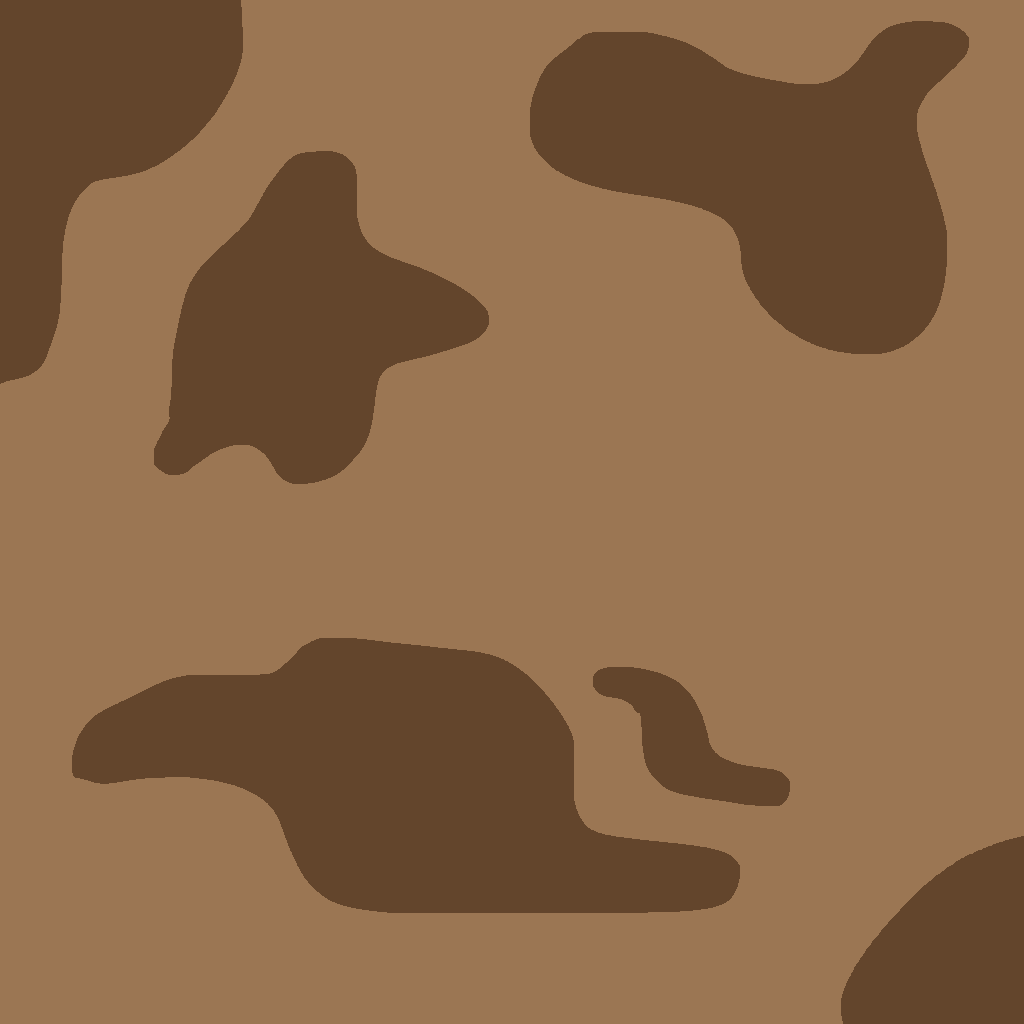
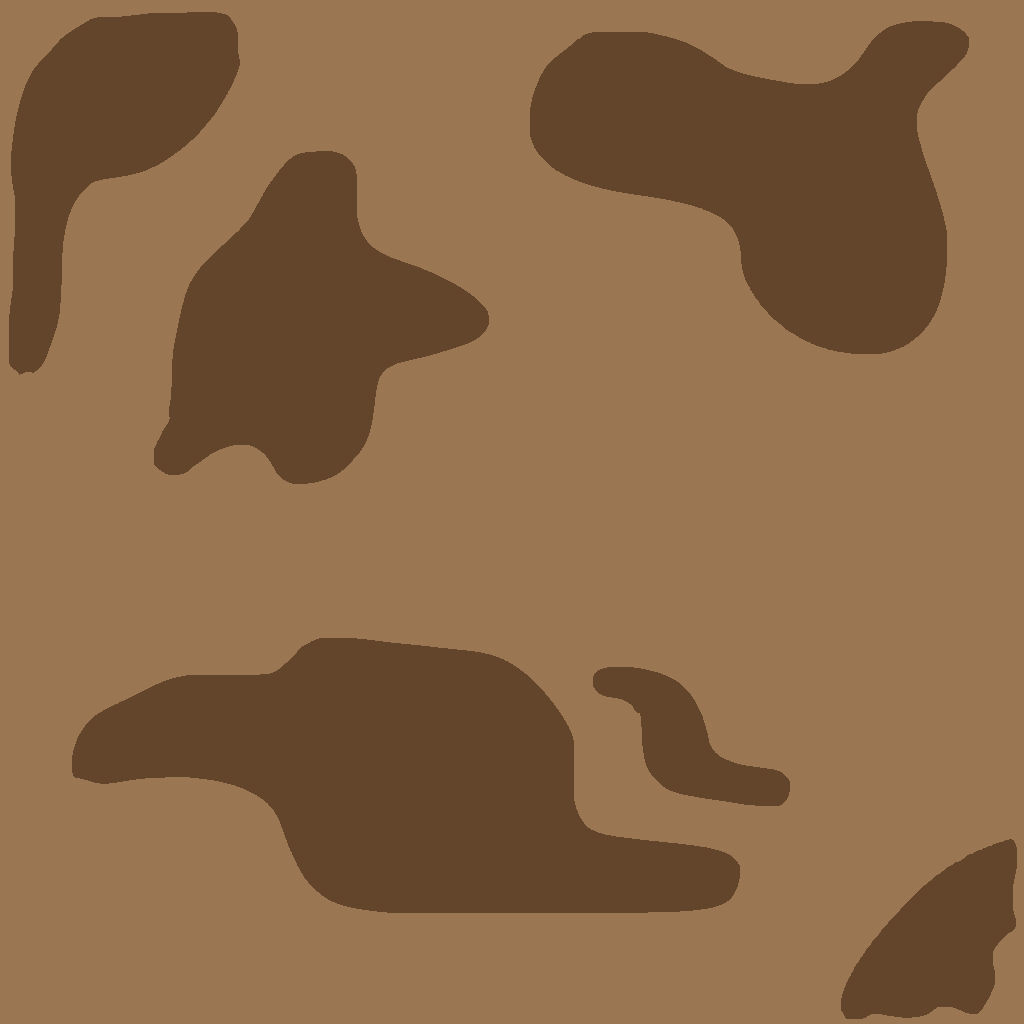
Draw map to screen as background

Changed region(s): [[0.0, 0.0, 0.25, 0.375], [0.8125, 0.8125, 1.0, 1.0]]

diff --git a/src/main.rs b/src/main.rs
@@ -28,10 +28,14 @@ fn model(app: &App) -> Model {
         .unwrap();
 
     let assets = app.assets_path().unwrap();
+
+    let background_path = assets.join("map.png");
+    let background_texture = wgpu::Texture::from_path(app, background_path).unwrap();
+
     let img_path = assets.join("red_ant.png");
     let ant_texture = wgpu::Texture::from_path(app, img_path).unwrap();
 
-    Model::new(ant_texture, NUM_ANTS)
+    Model::new(background_texture, ant_texture, NUM_ANTS)
 }
 
 // required function for the nannou app; is run 60 times per second
@@ -44,7 +48,12 @@ fn update(_app: &App, model: &mut Model, _update: Update) {
 // required function for the nannou app; draws to the screen
 fn view(app: &App, model: &Model, frame: Frame) {
     let draw = app.draw();
-    let background_color = rgb(34.0 / 255.0, 40.0 / 255.0, 49.0 / 255.0);
+
+    let background_color = rgb(155.0 / 255.0, 118.0 / 255.0, 83.0 / 255.0);
+
+    draw.texture(&model.background_texture)
+        .x_y(0.0, 0.0)
+        .w_h(WINDOW_SIZE as f32, WINDOW_SIZE as f32);
 
     frame.clear(background_color);
 

diff --git a/src/model.rs b/src/model.rs
@@ -15,18 +15,27 @@ enum MapPixel {
 pub struct Model {
     ants: Vec<Ant>,
     map: HashMap<(i32, i32), MapPixel>,
+    pub background_texture: wgpu::Texture,
 }
 
 // add a way to make a new Model
 impl Model {
-    pub fn new(ant_texture: wgpu::Texture, num_ants: u32) -> Self {
+    pub fn new(
+        background_texture: wgpu::Texture,
+        ant_texture: wgpu::Texture,
+        num_ants: u32,
+    ) -> Self {
         let ants = (0..num_ants)
             .map(|_| Ant::new(ant_texture.clone()))
             .collect();
 
         let map = generate_hashmap("assets/map.png");
 
-        Self { ants, map }
+        Self {
+            ants,
+            map,
+            background_texture,
+        }
     }
 }
 

diff --git a/src/ant.rs b/src/ant.rs
@@ -29,6 +29,7 @@ impl Bounds {
     }
 }
 
+// TODO: add probes to ants so they take samples of their environment
 // an ant is made up of a position, direction, size, and texture (ant png).
 pub struct Ant {
     size: Vec2,
